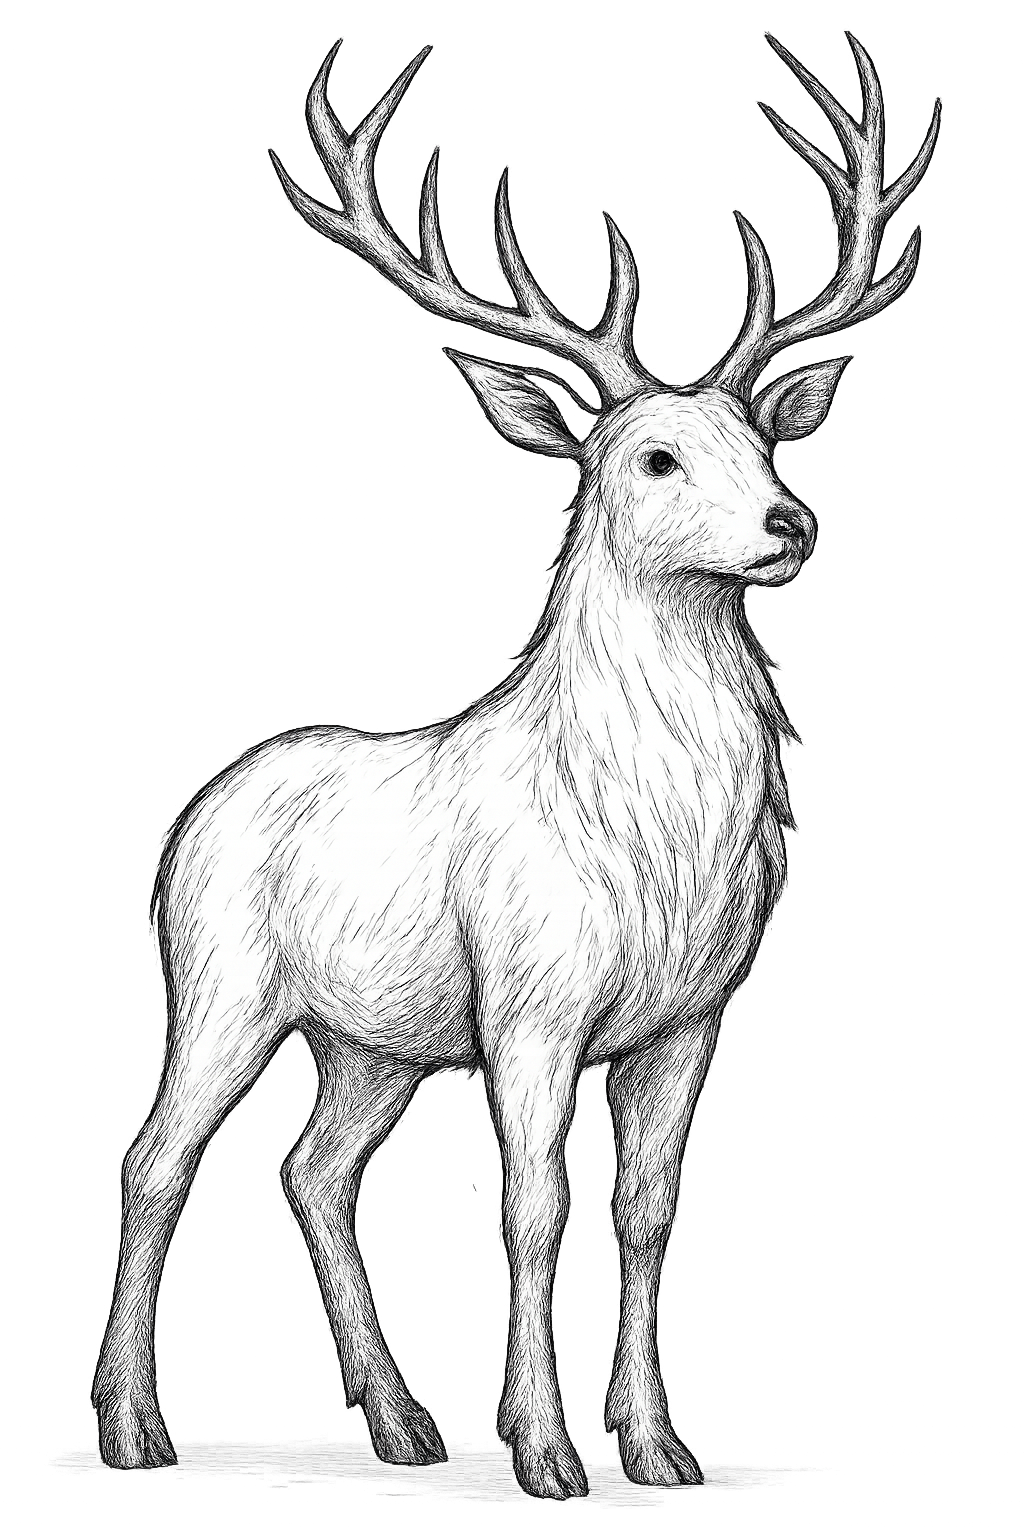
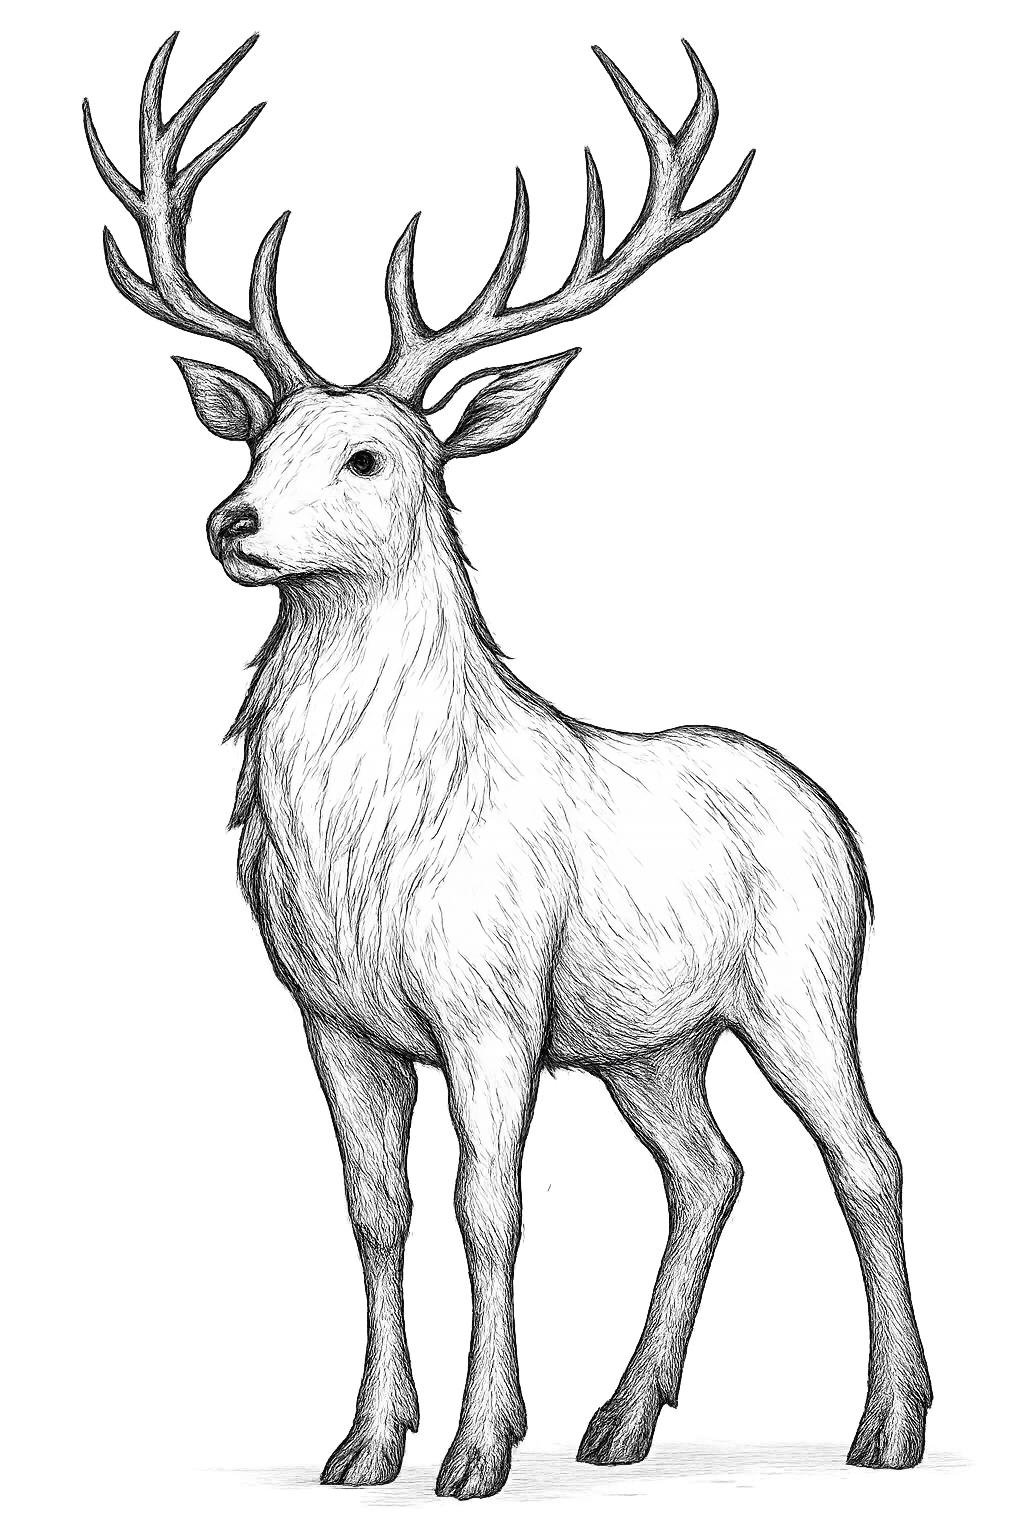
content(hofer/session-story): add header image

Changed region(s): [[0.0938, 0.0, 0.9062, 1.0], [0.9062, 0.0625, 0.9375, 0.0938], [0.0625, 0.0625, 0.0938, 0.0938]]

diff --git a/src/styles/custom.css b/src/styles/custom.css
@@ -14,6 +14,11 @@ img {
 
 
 
+.hero img {
+  margin-inline: auto;
+  max-height: 50vw;
+}
+
 /*  Dont't reserve space for non existing images
  *  inside the Hero component.
  */

diff --git a/src/content/docs/hofer/die-faehrte-der-weissen-hirsche.md b/src/content/docs/hofer/die-faehrte-der-weissen-hirsche.md
@@ -7,6 +7,9 @@ tableOfContents: false
 hero:
   title: Die Fährte der weißen Hirsche
   tagline: Fünf ungleiche Gefährten, ein Auftrag, ein Versprechen.
+  image:
+    alt: A majestic white deer
+    file: assets/white-deer.png
 ---
 
 
